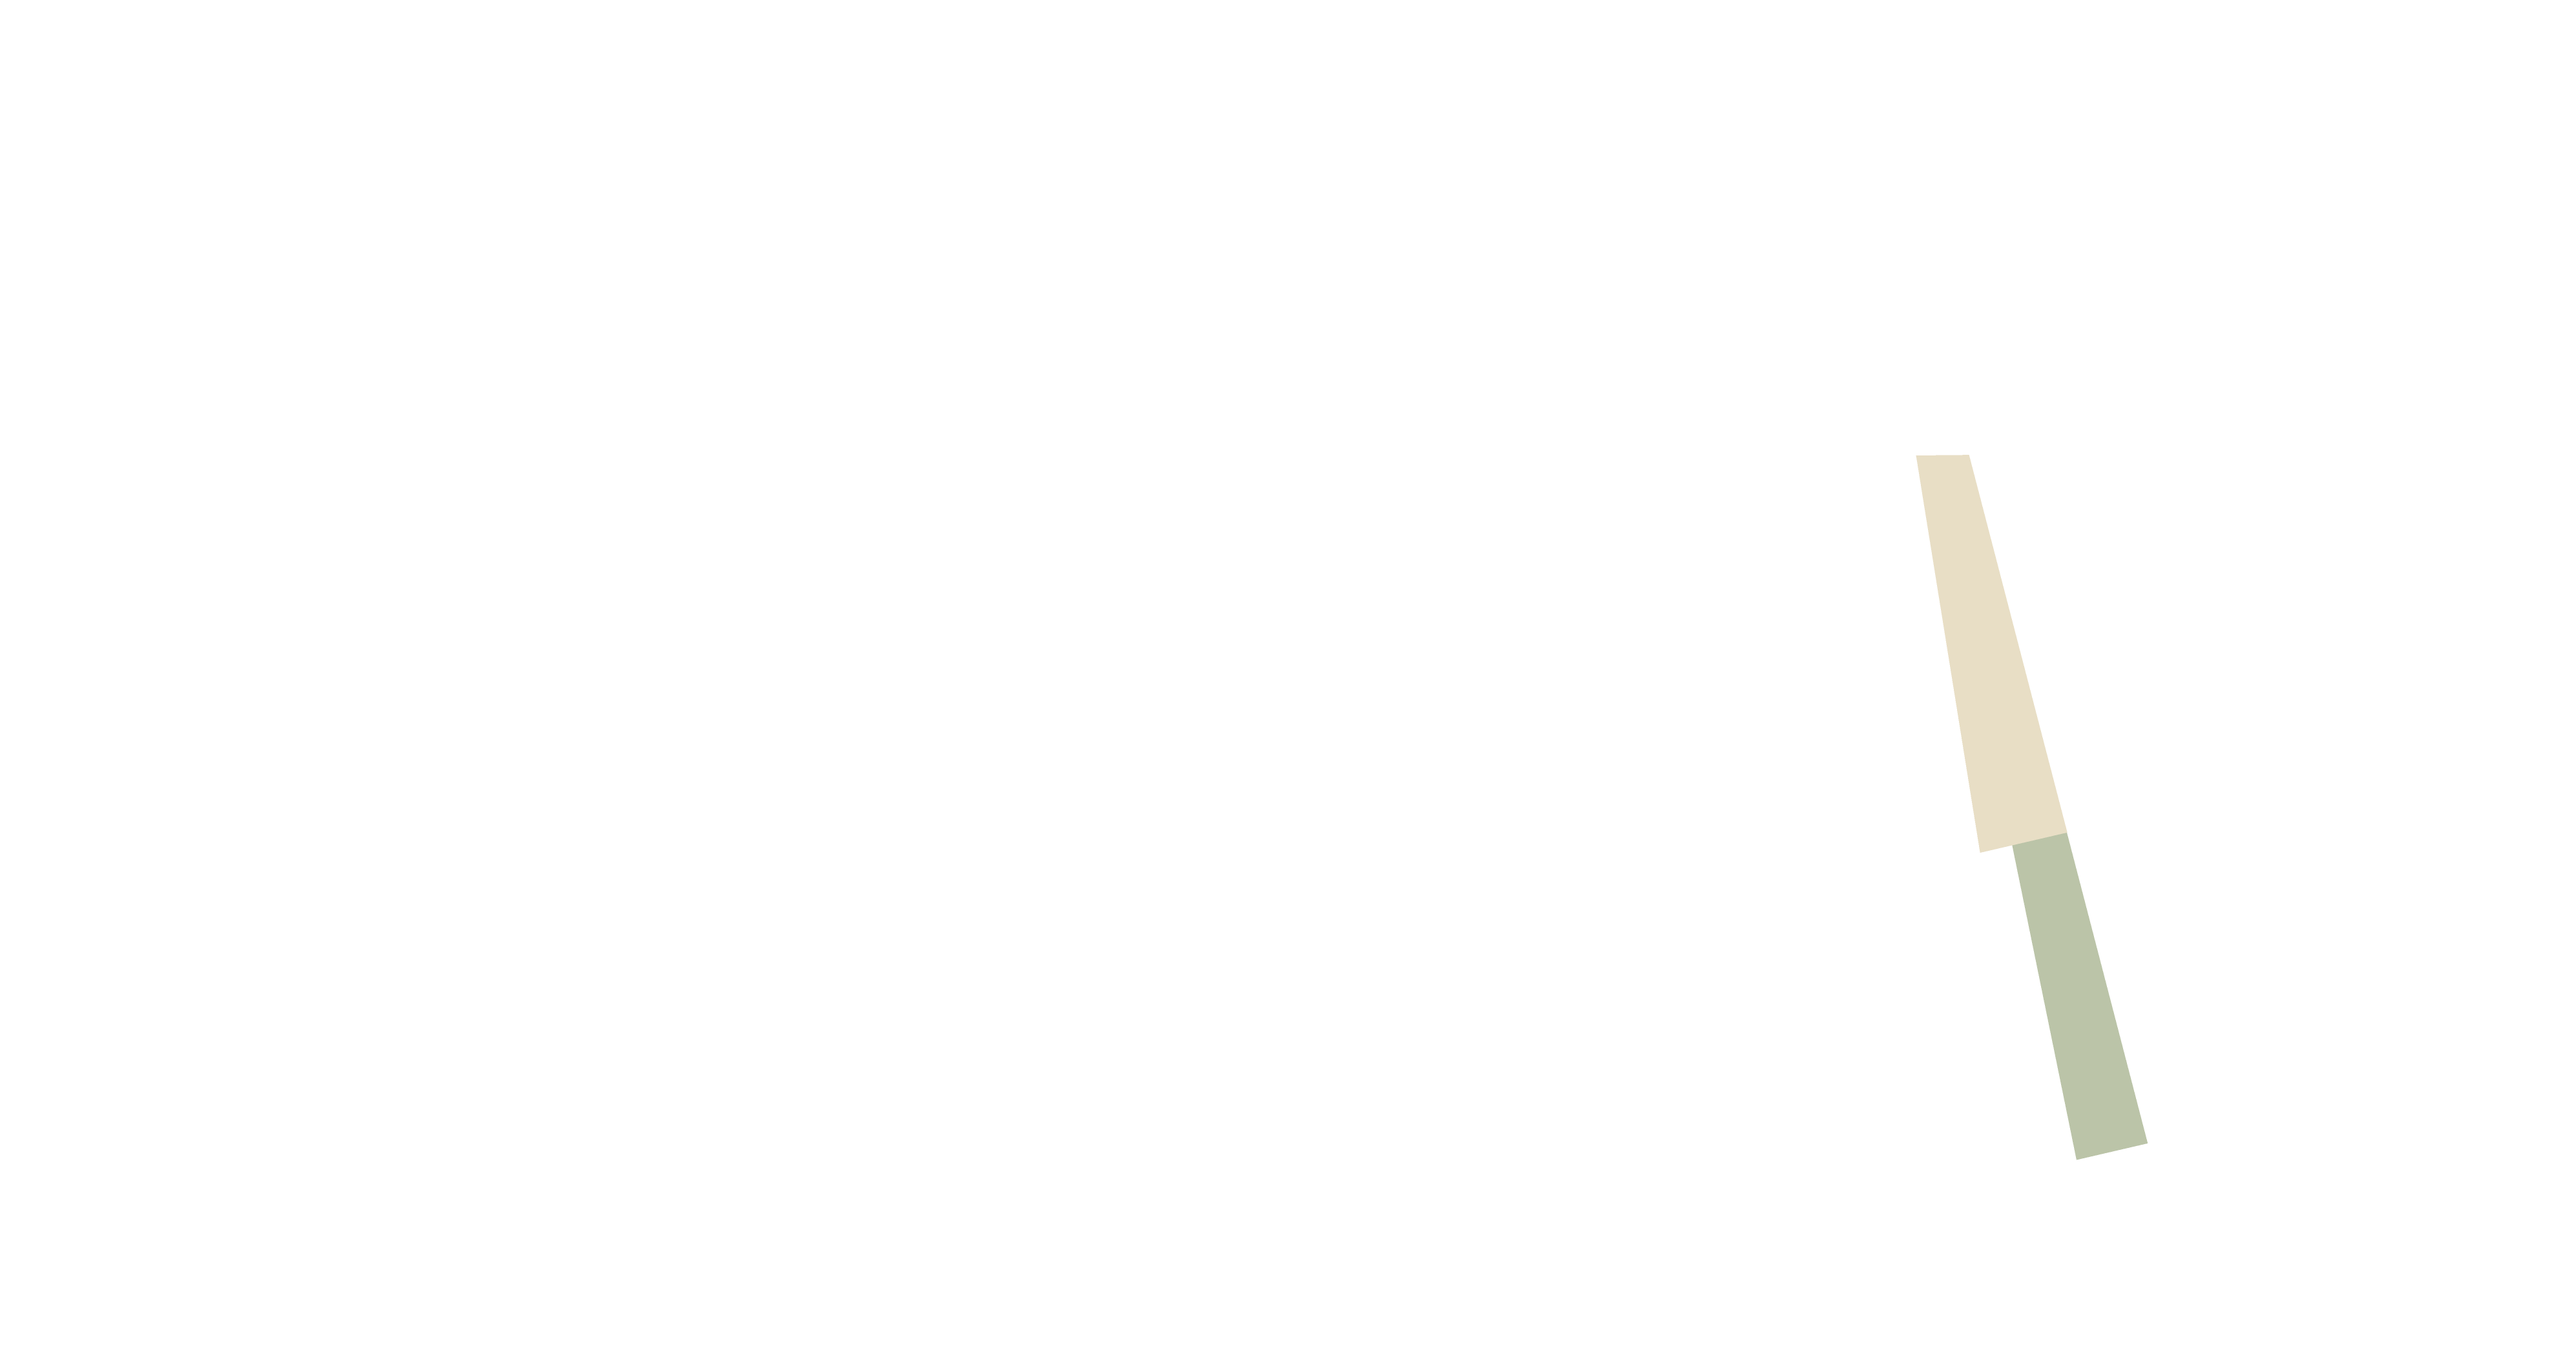
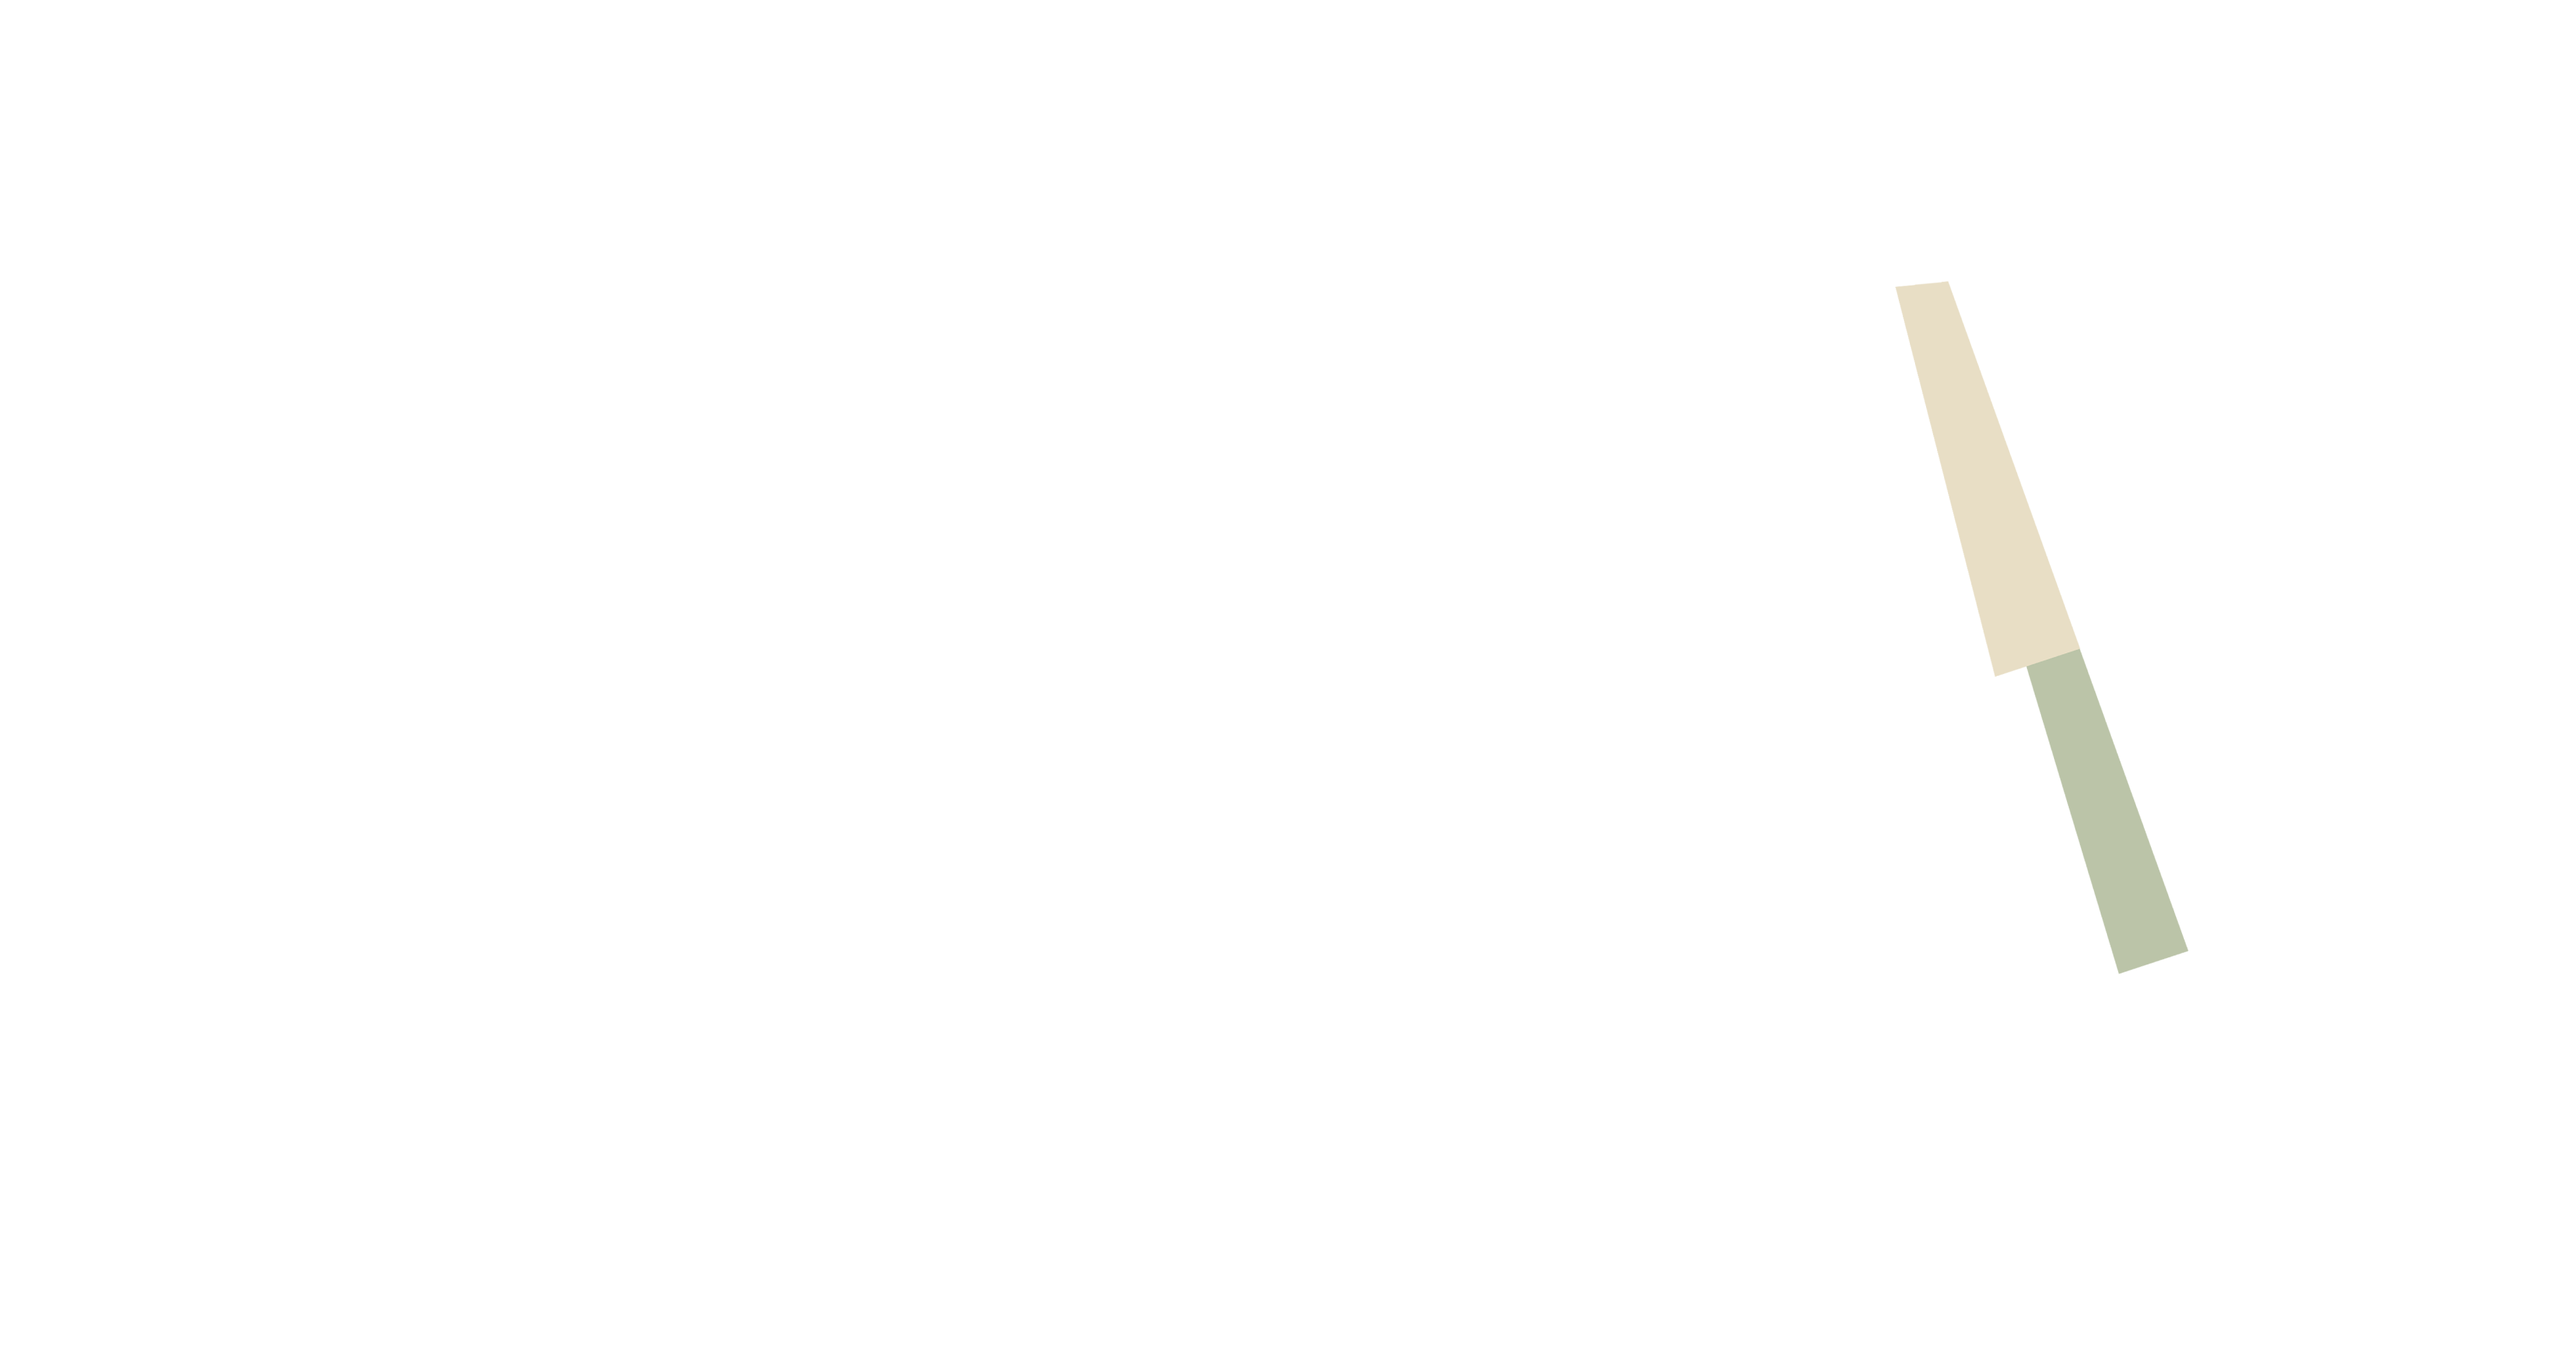
comments

Changed region(s): [[0.7153, 0.2185, 0.8708, 0.8742]]

diff --git a/clock.js b/clock.js
@@ -2,8 +2,8 @@
  * use p5.js to draw a clock on a 960x500 canvas
  */
 
-let img;
 
+// preload all layers
 function preload() {
   img_1 = loadImage('1plate.png');
   img_hour = loadImage('1meat.png');
@@ -24,23 +24,9 @@ function draw_clock(obj) {
   let millis = obj.millis;
   let alarm = obj.seconds_until_alarm;
 
-  // draw your own clock here based on the values of obj:
-  //    obj.hours goes from 0-23
-  //    obj.minutes goes from 0-59
-  //    obj.seconds goes from 0-59
-  //    obj.millis goes from 0-999
-  //    obj.seconds_until_alarm is:
-  //        < 0 if no alarm is set
-  //        = 0 if the alarm is currently going off
-  //        > 0 --> the number of seconds until alarm should go off
-  background(50); //  beige
-  fill(200); // dark grey
-  textSize(40);
 
-// testing text
-  // text("Second:" + seconds, 80, 100);
-  // text("Hours:" + hours, 50, 50);
-  // text("minute:" + minute, 50, 150);
+
+
 
   // reset the images point to 12:00:00
   let seconds_origin = PI / 30 * 39.5
@@ -48,8 +34,6 @@ function draw_clock(obj) {
   let hour_origin = PI / 30 * 7
 
 
-  // let millis_map= map(millis,0,999,0,60)
-  // let seconds_rotation = map(millis_map,0,60,0,PI/30)
 
 
 
@@ -61,170 +45,129 @@ function draw_clock(obj) {
   // import the still images:
   translate(width / 2, height / 2);
 
-
-
-  
   image(img_table, -480, -250, 960, 500)
- 
-
   image(img_1, -200, -200, 400, 400)
-
-  
-
- 
   image(img_sauce, -200, -200, 400, 400)
-  
-
- 
- 
 
 
 
-
-
-
-
-
-// hours:
+  // hours: smoothly movement
   push();
   let hoursWithFraction = obj.hours + (obj.minutes / 60);
   let hourRotateSmooth = map(hoursWithFraction, 0, 23, 0, 12);
   let rotation_1 = hour_origin + hourRotateSmooth
   rotate(rotation_1)
   image(img_hour, -200, -200, 400, 400)
-
   pop();
 
 
 
 
-  // test texting:
-  // push();
-  // text("hwf" + hoursWithFraction, 50, 150)
-  // text("hrs" + hourRotateSmooth, 100, 250)
-  // text("rotation1" + rotation_1, 100, -100)
-  // pop();
-
-
-
-  // minutes:
+  // minutes: accurately movement for telling time easier
   push();
   rotate(minute_origin + PI / 30 * minute)
   image(img_minute, -200, -200, 400, 400)
-
   pop();
 
 
 
-  // seconds
+  // seconds:: smoothly movement
   push();
-  let secondsWithFraction = obj.seconds + (obj.millis / 999.0); 
-    
-  let secondRotateSmooth = map(secondsWithFraction, 0, 59, 0, 360);
-  
-  let second_bounce =map(millis,0,999,0,TWO_PI) 
-   
-  let second_phase=sin(second_bounce);
-  let y_secondBounce_1=map(second_phase,-1,1,0,15)
+  let secondsWithFraction = obj.seconds + (obj.millis / 999.0);
+  let secondRotateSmooth = map(secondsWithFraction, 0, 59, 0, 360);//smooth
 
+  let second_bounce = map(millis, 0, 999, 0, TWO_PI)
+  let second_phase = sin(second_bounce);
+  let y_secondBounce_1 = map(second_phase, -1, 1, 0, 15)//bouncing while rotating
 
-
-  rotate(seconds_origin + secondRotateSmooth/58.5)
-  image(img_seconds, -200+y_secondBounce_1, -200+y_secondBounce_1, 400, 400)
+  rotate(seconds_origin + secondRotateSmooth / 58.5)
+  image(img_seconds, -200 + y_secondBounce_1, -200 + y_secondBounce_1, 400, 400)
   pop();
 
 
+  //  alarm : utensils move exaggeratively
 
-
-  let fork_bounce =map(millis,0,999,0,TWO_PI)
-  let fork_phase=sin(fork_bounce);
-  let y_forkBounce_1=map(fork_phase,-1,1,0,5)
-
-//  alarm 
-  if (alarm > 0 && alarm < 1) {
-    y_forkBounce_1= map(fork_phase,-1,1,0,15);
-
-
-
-  } else if (alarm == 0) {
-    if (millis > 0)
-    y_forkBounce_1= map(fork_phase,-1,1,-50,50)
-  } 
-
-
-
-  let knife_bounce =map(millis+500,0,999,0,TWO_PI)
-  let knife_phase=sin(knife_bounce);
-  let y_knifeBounce_1=map(knife_phase,-1,1,0,5)
+  // fork
+  let fork_bounce = map(millis, 0, 999, 0, TWO_PI)
+  let fork_phase = sin(fork_bounce);
+  let y_forkBounce_1 = map(fork_phase, -1, 1, 0, 5)
 
 
   if (alarm > 0 && alarm < 1) {
-    y_knifeBounce_1= map(knife_phase,-1,1,0,15);
+    y_forkBounce_1 = map(fork_phase, -1, 1, 0, 15);
+  } else if (alarm == 0) {
+    if (millis > 0)
+      y_forkBounce_1 = map(fork_phase, -1, 1, -50, 50)
+  }
 
-
+// knife
+  let knife_bounce = map(millis + 500, 0, 999, 0, TWO_PI)
+  let knife_phase = sin(knife_bounce);
+  let y_knifeBounce_1 = map(knife_phase, -1, 1, 0, 5)
+  if (alarm > 0 && alarm < 1) {
+    y_knifeBounce_1 = map(knife_phase, -1, 1, 0, 15);
 
   } else if (alarm == 0) {
     if (millis > 0)
-    y_knifeBounce_1= map(knife_phase,-1,1,-50,50)
-  } 
-
-   
-
-
-  let x_forkBounce=y_forkBounce_1/5
-  let x_knifeBounce=y_knifeBounce_1/5
-
-  let forkRoation=map(y_forkBounce_1,-50,50,-0.7,0.5)
-  let knifeRoation=map(y_knifeBounce_1,-50,50,-0.7,0.5)
+      y_knifeBounce_1 = map(knife_phase, -1, 1, -50, 50)
+  }
 
 
 
 
-push();
-rotate(forkRoation)
+  let x_forkBounce = y_forkBounce_1 / 5
+  let x_knifeBounce = y_knifeBounce_1 / 5//this gives them a slight horizontal bounce
 
-  image(img_fork, -480+x_forkBounce, -250 + y_forkBounce_1, 960, 500)
+  let forkRoation = map(y_forkBounce_1, -50, 50, -0.7, 0.5)
+  let knifeRoation = map(y_knifeBounce_1, -50, 50, -0.7, 0.5)
+
+
+
+
+  push();
+  rotate(forkRoation)
+  image(img_fork, -480 + x_forkBounce, -250 + y_forkBounce_1, 960, 500)
   pop();
 
   push();
   rotate(knifeRoation)
-  image(img_knife, -480+x_knifeBounce, -250 +y_knifeBounce_1, 960+5, 500-10)
+  image(img_knife, -480 + x_knifeBounce, -250 + y_knifeBounce_1 + 40, 960, 500)
   pop();
 
 
- 
 
-let bounceHeight=6
-let pea_bounce1 =map(millis,0,999,0,TWO_PI)
-let pea_phase1=sin(pea_bounce1);
-let y_bounce_1=map(pea_phase1,-1,1,0,bounceHeight)
-let pea_y1=-50
-let pea_x=-10
+// decoration of 3 greenpeas
+  let bounceHeight = 6
+  let pea_bounce1 = map(millis, 0, 999, 0, TWO_PI)
+  let pea_phase1 = sin(pea_bounce1);
+  let y_bounce_1 = map(pea_phase1, -1, 1, 0, bounceHeight)
+  let pea_y1 = -50
+  let pea_x = -10
 
-noStroke()
-fill('#598c34')
-ellipse(pea_x,pea_y1+y_bounce_1,20)
-
-
-
-let pea_bounce2 =map(millis-200,0,999,0,TWO_PI)
-let pea_phase2=sin(pea_bounce2);
-let y_bounce_2=map(pea_phase2,-1,1,0,bounceHeight)
+  noStroke()
+  fill('#598c34')
+  ellipse(pea_x, pea_y1 + y_bounce_1, 20)
 
 
-noStroke()
-fill('#598c34')
-ellipse(pea_x-17,pea_y1+30+y_bounce_2,20)
+
+  let pea_bounce2 = map(millis - 200, 0, 999, 0, TWO_PI)
+  let pea_phase2 = sin(pea_bounce2);
+  let y_bounce_2 = map(pea_phase2, -1, 1, 0, bounceHeight)
 
 
-let pea_bounce3 =map(millis-400,0,999,0,TWO_PI)
-let pea_phase3=sin(pea_bounce3);
-let y_bounce_3=map(pea_phase3,-1,1,0,bounceHeight)
+  noStroke()
+  fill('#598c34')
+  ellipse(pea_x - 17, pea_y1 + 30 + y_bounce_2, 20)
 
 
-noStroke()
-fill('#598c34')
-ellipse(pea_x+20,pea_y1+y_bounce_3+40,20)
+  let pea_bounce3 = map(millis - 400, 0, 999, 0, TWO_PI)
+  let pea_phase3 = sin(pea_bounce3);
+  let y_bounce_3 = map(pea_phase3, -1, 1, 0, bounceHeight)
+
+
+  noStroke()
+  fill('#598c34')
+  ellipse(pea_x + 20, pea_y1 + y_bounce_3 + 40, 20)
 
 
 }
